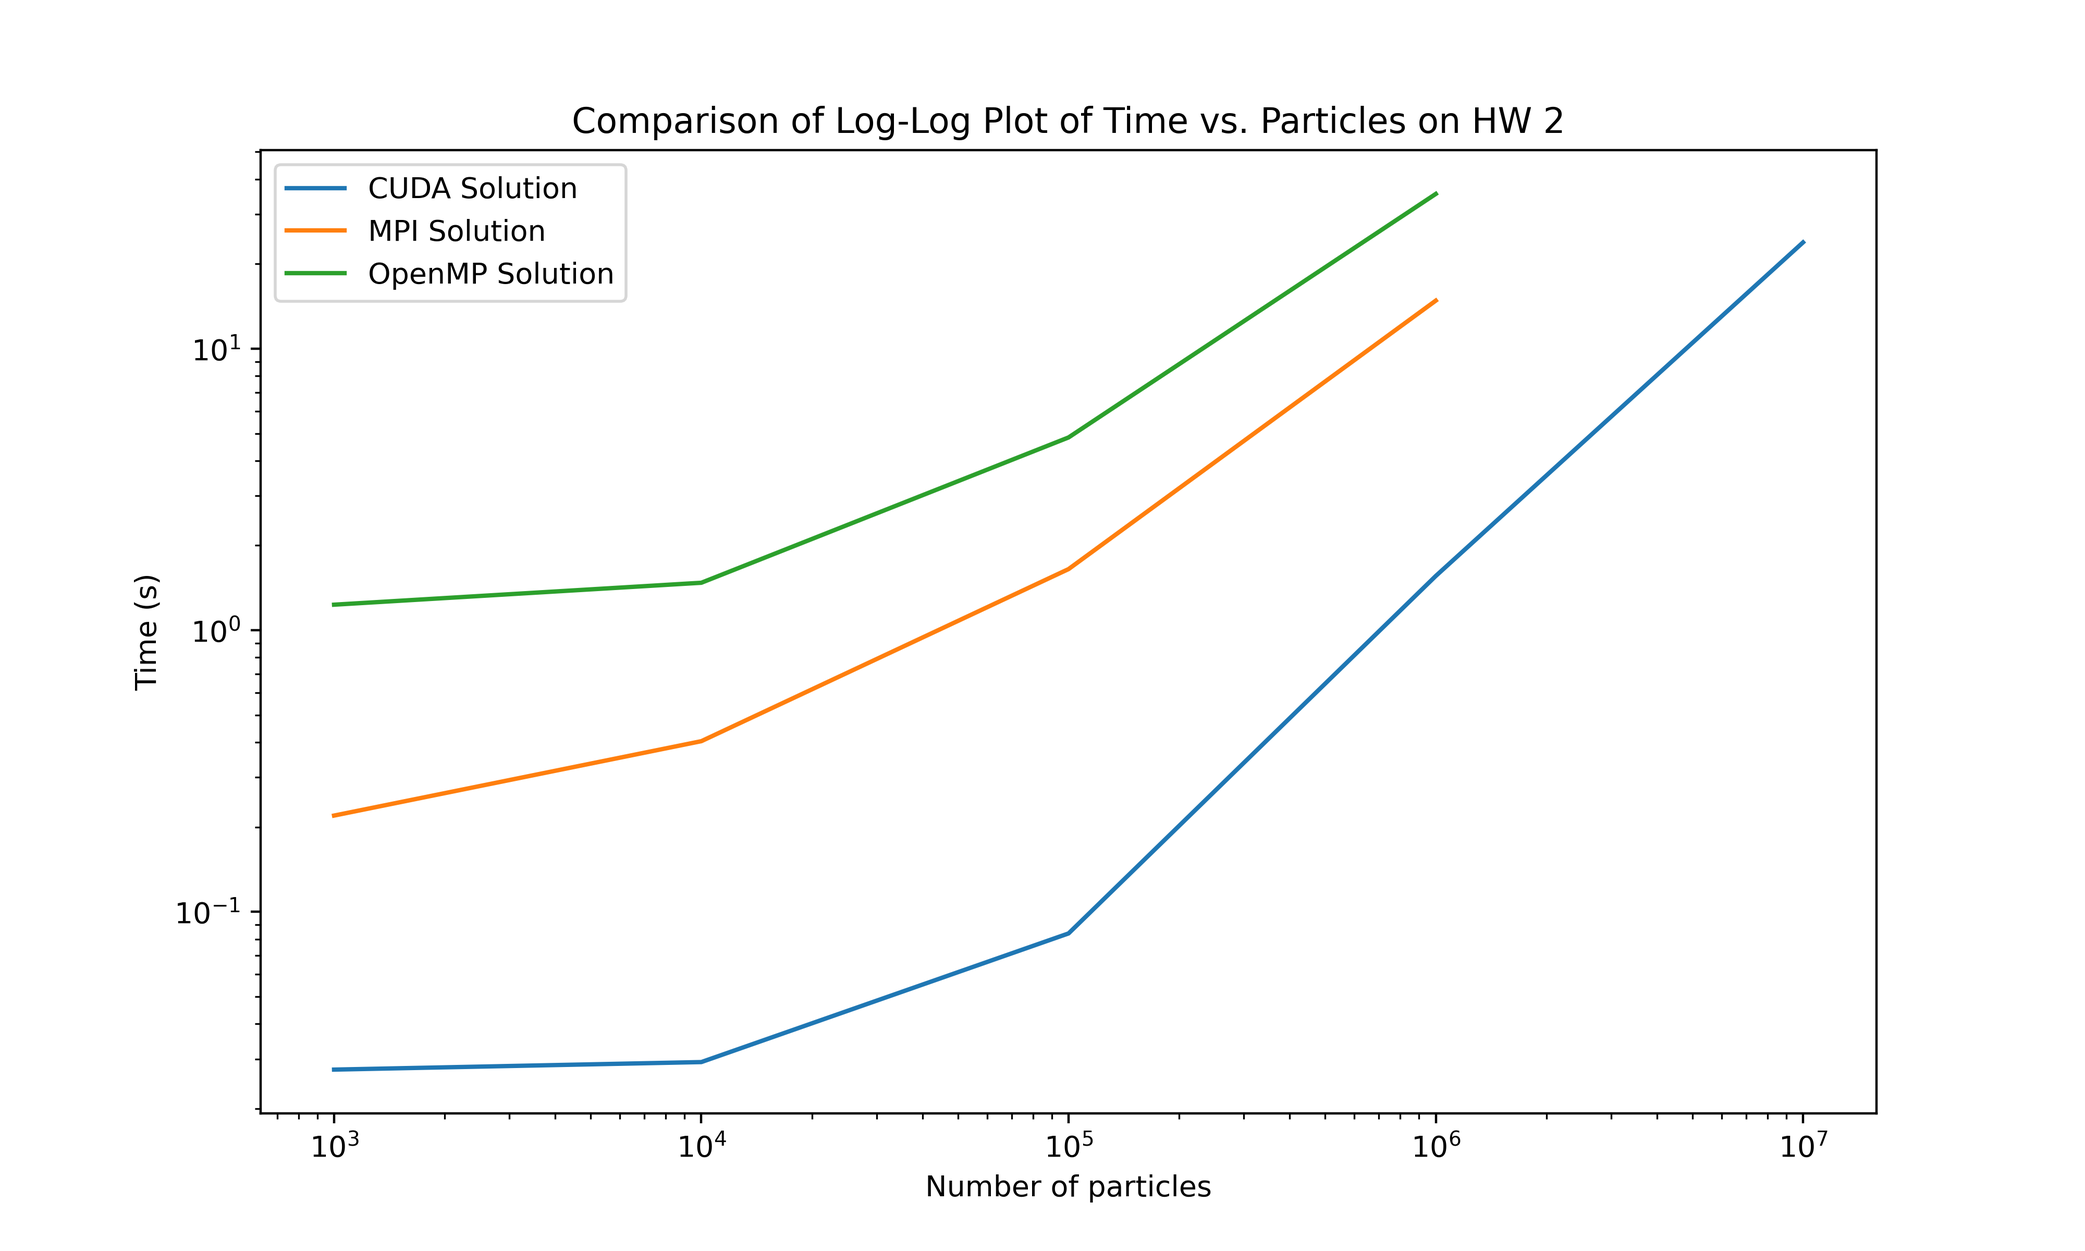
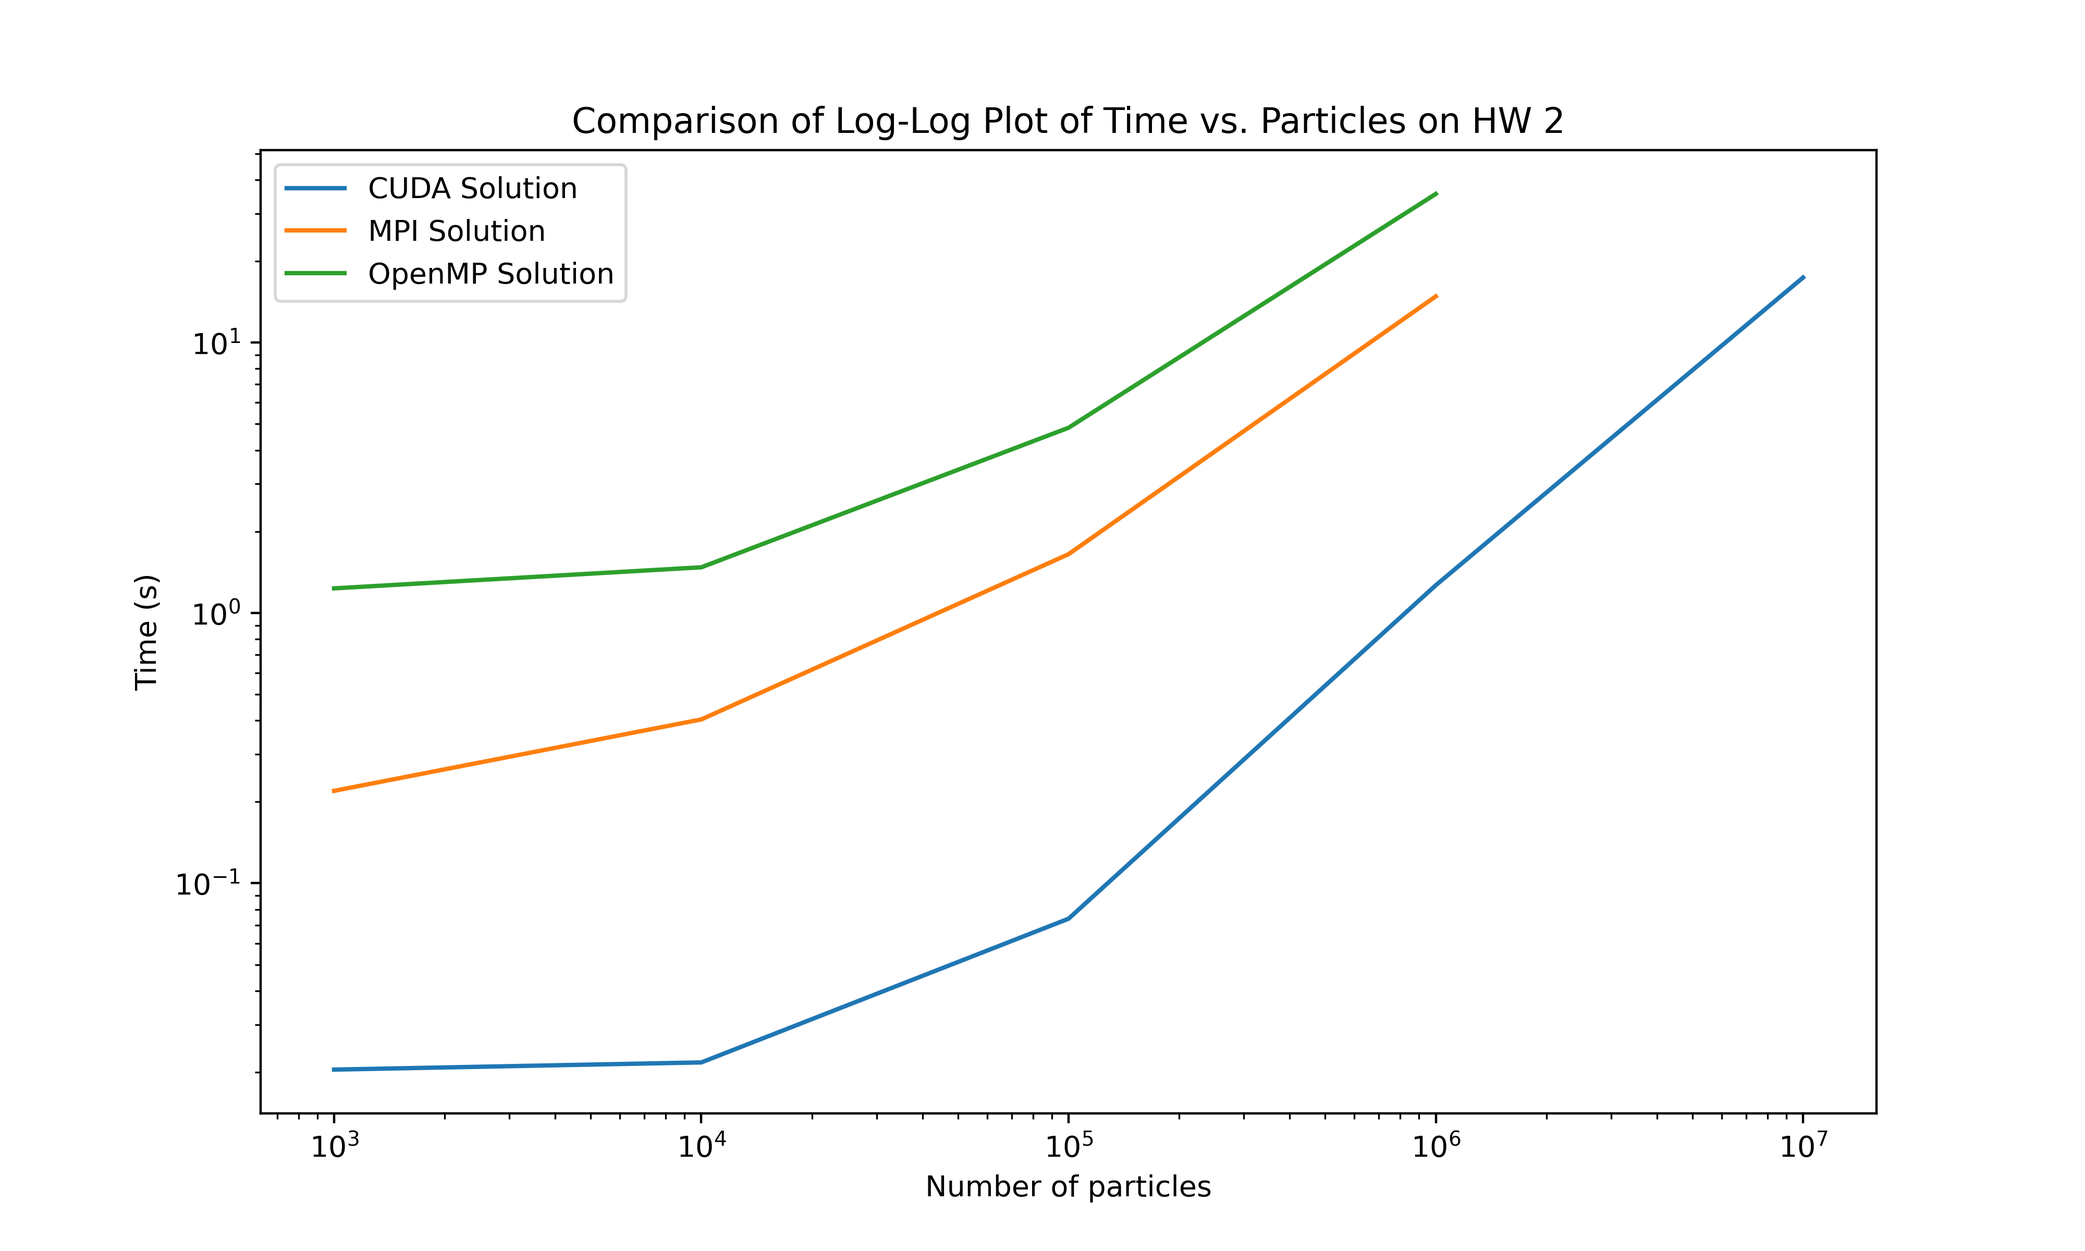
update repo

diff --git a/hw/latex/hw2_3.tex b/hw/latex/hw2_3.tex
@@ -25,20 +25,20 @@
 In general, compared to using prefix sum, this saves on memory allocation, but may seem to take a hit on spatial locality, since the linked list is not stored contiguously and cannot take advantage of the GPU cache. Another tradeoff that this design has is that it does not need to sort and can append to the linked list in $O(1)$ time using an atomic swap primitive in CUDA. Thus, the creation of the linked list can be called by a \verb|__global__| function, although the actual appending takes $O(n)$ time for each iteration per bin. But note that as the number of particles increase, the more bins that are created, so each bin will have a relatively small amount of particles, thus the $O(n)$ time mentioned earlier is smaller and latency of pointer chasing is essentially hidden to a smaller constant as you increase the number of particles. 
 
 \subsection{Synchronization}
-The only synchronization primitive that this code uses are atomic instructions \verb|atomicExch()| and \\ \verb|cudaDeviceSynchronize()|. We need \verb|atomicExch()| to append the linked list atomically and update the head of the head of the \verb|bin_ids| table of references. We need \verb|cudaDeviceSynchronize()| during every step of \verb|simulate_one_step| because we rebin the particles everytime after moving. To ensure that all the particles are in the right position before rebinning, we essentially put a barrier to ensure correctness of the particle's positions. Otherwise, the code may decide to bin particles without finishing moving.
+The only synchronization primitive that this code uses are atomic instructions \verb|atomicExch()|, \verb|atomicAdd()| and \\ \verb|__syncthreads()|. We need \verb|atomicExch()| to append the linked list atomically and update the head of the head of the \verb|bin_ids| table of references. We need \verb|__syncthreads()| during the end of \verb|compute_forces_gpu_bin()| because we rebin the particles every time after moving. This is a GPU kernel level synchronization that should ensure this correctness. Otherwise, the code may decide to bin particles without finishing moving. We also had to change the starter code and include \verb|atomicAdd()| in \verb|apply_force_gpu()|. In order to algorithmically speed up our code by including bidirectional iteration, we needed to add atomics as GPU threads would often collide and give incorrect results when updating particle metadata. 
 
 \subsection{Other Design Choices}
-Originally, we tried to use the GSI's recitation slides as a guide, using the prefix sum to compute the location of the \verb|particle_ids| into \verb|bin_ids| as the pointer to the location, since \verb|particles| would be sorted and stored contiguously into \verb|particle_ids|. But we had a lot of trouble figuring out how to make this ensure correctness, as in \verb|init_simulation| everything would seem correct, but after iterations in \verb|simulate_one_step|  there was synchronization issues where sometimes the bins wouldn't be sorted properly. Adding synchronization primitives such as \verb|cudaDeviceSynchronize()| and \verb|__syncthreads()| only slowed down the code and didn't fix correctness. Due to this weird correctness bug, we started from scratch again. We had the linked list implementation in mind, but were worried that pointer chasing would incur a lot of GPU cache misses. Given that the GPU architecture is very expensive and performant on registers and memory bandwidth, this type of concern should be free and very minimal. Given that the linked list implementation is under 4 seconds and pretty good compared to previous semester grades, we merged it into our main implementation. Ignoring correctness, the performance of prefix sum and sorting implementation was very bad, and it was probably due to the calls of \verb|cudaMemCpy| to do transfer data from CPU to GPU. Fortunately, the linked list implementation resides all of its computation on the GPU memory. Surprisingly, the code is very straightforward and cleaner than the original prefix sum and sorting implementation.
+Originally, we tried to use the GSI's recitation slides as a guide, using the prefix sum to compute the location of the \verb|particle_ids| into \verb|bin_ids| as the pointer to the location, since \verb|particles| would be sorted and stored contiguously into \verb|particle_ids|. But we had a lot of trouble figuring out how to make this ensure correctness, as in \verb|init_simulation| everything would seem correct, but after iterations in \verb|simulate_one_step|  there was synchronization issues where sometimes the bins wouldn't be sorted properly. Adding synchronization primitives such as \verb|cudaDeviceSynchronize()| and \verb|__syncthreads()| only slowed down the code and didn't fix correctness. Due to this weird correctness bug, we started from scratch again. We had the linked list implementation in mind, but were worried that pointer chasing would incur a lot of GPU cache misses. Given that the GPU architecture is very expensive and performant on registers and memory bandwidth, this type of concern should be free and very minimal. The linked list implementation is under 4 seconds and pretty good compared to previous semester grades, we merged it into our main implementation. Ignoring correctness, the performance of prefix sum and sorting implementation was very bad, and it was probably due to the calls of \verb|cudaMemCpy| to do transfer data from CPU to GPU. Fortunately, the linked list implementation resides all of its computation on the GPU memory. Surprisingly, the code is very straightforward and cleaner than the original prefix sum and sorting implementation.
 
 \subsection{Can We Do Better?}
-If given enough time, abandoning the linked list implementation and redoing the prefix sum could give us better performance. But considering that a student on Piazza reached 1.5 seconds on 1 million particles (ours is around 1.56s), we considered this as our stopping point. To implement the prefix sum required more code and a lot more debugging, and it was frustrating to use \verb|cuda-gdb| as switching into GPU kernel threads was often confusing to understand. Instead, we printed statements by transferring copies to CPU for correctness.
+If given enough time, abandoning the linked list implementation and redoing the prefix sum could give us better performance. But considering that a student on Piazza reached 1.5 seconds on 1 million particles (ours is around 1.26s), we considered this as our stopping point. To implement the prefix sum required more code and a lot more debugging, and it was frustrating to use \verb|cuda-gdb| as switching into GPU kernel threads was often confusing to understand. Instead, we printed statements by transferring copies to CPU for correctness.
 
 \section{Performance}
 
-\subsection{Log-Log Plot/Naive and our GPU implementation with linear behavior}
+\subsection{Log-Log Plot of Naive and GPU Implementation with Linear Behavior}
 \centerline{\includegraphics[width=6in]{figures/log-log.png}}
 
-Above shows the plots of the GPU optimized performance compared to the naive implementation from the starter code. We a constant increase in performance for naive and our optimized solution is able to follow that increase but at a much lower time. This is essentially the Roofline model in effect, where we see our performance be in memory bound and change to compute bound at around $10^5$ particles.
+Above shows the plots of the GPU optimized performance compared to the naive implementation from the starter code. We have a constant increase in performance for naive and our optimized solution is able to follow that increase but at a much lower time. This is essentially the Roofline model in effect, where we see our performance be in memory bound and change to compute bound at around $10^5$ particles.
 
 
 \subsection{All Implmentations of HW 2 Compared}
@@ -49,89 +49,55 @@ Interestingly, we see all of our implementations from OpenMP, MPI, and CUDA grap
 \subsection{Profiling}
 Here is a dump of the profiling log from \verb|nvprof| for 1000 particles:
 
-\begin{table}[]
-\begin{tabular}{llllllll}
-Type       & Time(\%) & Time     & Calls & Avg      & Min      & Max      & Name                   \\
-GPU activities: &
-  69.81\% &
-  10.602ms &
-  1000 &
-  10.601us &
-  5.4080us &
-  11.872us &
-  \begin{tabular}[c]{@{}l@{}}compute\_forces\_gpu\_bin\\ (particle\_t*, int, int, double, int*, int*)\end{tabular} \\
- &
-  17.10\% &
-  2.5970ms &
-  1000 &
-  2.5960us &
-  2.5600us &
-  2.8160us &
-  move\_gpu(particle\_t*, int, double) \\
- &
-  13.04\% &
-  1.9810ms &
-  1001 &
-  1.9790us &
-  1.9190us &
-  9.6000us &
-  \begin{tabular}[c]{@{}l@{}}binning(particle\_t*, \\ int, int, double, int*, int*)\end{tabular} \\
-           & 0.04\%   & 6.7200us & 1     & 6.7200us & 6.7200us & 6.7200us & {[}CUDA memcpy HtoD{]} \\
-API calls: & 86.51\%  & 208.47ms & 3     & 69.490ms & 2.9360us & 208.46ms & cudaMalloc             \\
-           & 8.40\%   & 20.253ms & 2001  & 10.121us & 978ns    & 21.672us & cudaDeviceSynchronize  \\
-           & 4.54\%   & 10.951ms & 3001  & 3.6490us & 3.2270us & 28.849us & cudaLaunchKernel       \\
-           & 0.26\%   & 618.75us & 1     & 618.75us & 618.75us & 618.75us & cuDeviceTotalMem       \\
-           & 0.23\%   & 565.39us & 101   & 5.5970us & 119ns    & 250.51us & cuDeviceGetAttribute   \\
-           & 0.03\%   & 69.979us & 1     & 69.979us & 69.979us & 69.979us & cuDeviceGetName        \\
-           & 0.02\%   & 39.924us & 1     & 39.924us & 39.924us & 39.924us & cudaMemcpy             \\
-           & 0.00\%   & 7.6000us & 1     & 7.6000us & 7.6000us & 7.6000us & cudaFree               \\
-           & 0.00\%   & 5.2530us & 1     & 5.2530us & 5.2530us & 5.2530us & cuDeviceGetPCIBusId    \\
-           & 0.00\%   & 1.3850us & 3     & 461ns    & 218ns    & 925ns    & cuDeviceGetCount       \\
-           & 0.00\%   & 1.0380us & 2     & 519ns    & 158ns    & 880ns    & cuDeviceGet            \\
-           & 0.00\%   & 239ns    & 1     & 239ns    & 239ns    & 239ns    & cuDeviceGetUuid       
-\end{tabular}
-\end{table}
+\begin{verbatim}
+ GPU activities:   63.15%  7.8961ms      1000  7.8960us  3.8400us  9.3760us  compute_forces_gpu_bin
+                                                                (particle_t*, int, int, double, int*, int*)
+                   20.81%  2.6014ms      1000  2.6010us  2.5590us  2.8480us  move_gpu
+                                                                (particle_t*, int, double)
+                   15.99%  1.9989ms      1001  1.9960us  1.9190us  2.6880us  binning
+                                                                (particle_t*, int, int, double, int*, int*)
+                    0.05%  6.7520us         1  6.7520us  6.7520us  6.7520us  [CUDA memcpy HtoD]
+      API calls:   90.32%  213.51ms         3  71.170ms  3.2540us  213.50ms  cudaMalloc
+                    4.72%  11.163ms      3001  3.7190us  3.2580us  32.592us  cudaLaunchKernel
+                    4.37%  10.341ms      1001  10.330us  1.1000us  18.366us  cudaDeviceSynchronize
+                    0.27%  632.12us         1  632.12us  632.12us  632.12us  cuDeviceTotalMem
+                    0.25%  592.64us       101  5.8670us     124ns  264.68us  cuDeviceGetAttribute
+                    0.04%  87.428us         1  87.428us  87.428us  87.428us  cuDeviceGetName
+                    0.02%  39.854us         1  39.854us  39.854us  39.854us  cudaMemcpy
+                    0.00%  10.101us         1  10.101us  10.101us  10.101us  cudaFree
+                    0.00%  9.7660us         1  9.7660us  9.7660us  9.7660us  cuDeviceGetPCIBusId
+                    0.00%  1.3440us         2     672ns     144ns  1.2000us  cuDeviceGet
+                    0.00%     992ns         3     330ns     174ns     634ns  cuDeviceGetCount
+                    0.00%     237ns         1     237ns     237ns     237ns  cuDeviceGetUuid
+\end{verbatim}
 
-Unless profiling creates some overhead, we know that in general, it takes around 0.025 seconds or 25ms for 1000 particles. We see that 69\% of the GPU's time is spent on \verb|compute_forces_gpu|, which is obviously the bottleneck even on serial implementation. Surprisingly, not that much time is spend on \verb|move_gpu|, but the analysis is understandable as it doesn't do anything computationally expensive. And impressively, 
-\verb|binning| takes 13\% of the GPU's time. It seems very fast to append to the linked list, and it's satisfying to know that pointer chasing doesn't seem to induce that much overhead or slowdown in performance given how binning works.
+Unless profiling creates some overhead, we know that in general, it takes around 0.020 seconds or 20ms for 1000 particles. We see that 63\% of the GPU's time is spent on \verb|compute_forces_gpu|, which is obviously the bottleneck even on serial implementation. Surprisingly, not that much time is spend on \verb|move_gpu|, but the analysis is understandable as it doesn't do anything computationally expensive. And impressively, 
+\verb|binning| takes 15\% of the GPU's time. It seems very fast to append to the linked list, and it's satisfying to know that pointer chasing doesn't seem to induce that much overhead or slowdown in performance given how binning works.
 
 For fun, a dump of 1 million particles is shown below:
 
-\begin{table}[]
-\begin{tabular}{llllllll}
-Type       & Time(\%) & Time     & Calls & Avg      & Min      & Max      & Name                                 \\
-GPU activities: &
-  61.73\% &
-  959.97ms &
-  1000 &
-  959.97us &
-  902.36us &
-  1.1170ms &
-  \begin{tabular}[c]{@{}l@{}}compute\_forces\_gpu\_bin(\\ particle\_t*, int, int, double, int*, int*)\end{tabular} \\
- &
-  28.31\% &
-  440.30ms &
-  1001 &
-  439.86us &
-  387.42us &
-  465.47us &
-  \begin{tabular}[c]{@{}l@{}}binning(particle\_t*, int, \\ int, double, int*, int*)\end{tabular} \\
-           & 9.26\%   & 143.95ms & 1000  & 143.95us & 139.23us & 149.85us & move\_gpu(particle\_t*, int, double) \\
-           & 0.70\%   & 10.840ms & 1     & 10.840ms & 10.840ms & 10.840ms & {[}CUDA memcpy HtoD{]}               \\
-API calls: & 86.73\%  & 1.54982s & 2001  & 774.52us & 940ns    & 1.4105ms & cudaDeviceSynchronize                \\
-           & 11.91\%  & 212.88ms & 3     & 70.961ms & 230.32us & 212.32ms & cudaMalloc                           \\
-           & 0.63\%   & 11.177ms & 3001  & 3.7240us & 3.2100us & 51.167us & cudaLaunchKernel                     \\
-           & 0.62\%   & 11.050ms & 1     & 11.050ms & 11.050ms & 11.050ms & cudaMemcpy                           \\
-           & 0.06\%   & 1.0764ms & 1     & 1.0764ms & 1.0764ms & 1.0764ms & cuDeviceTotalMem                     \\
-           & 0.03\%   & 579.12us & 101   & 5.7330us & 124ns    & 260.01us & cuDeviceGetAttribute                 \\
-           & 0.02\%   & 386.46us & 1     & 386.46us & 386.46us & 386.46us & cudaFree                             \\
-           & 0.00\%   & 67.072us & 1     & 67.072us & 67.072us & 67.072us & cuDeviceGetName                      \\
-           & 0.00\%   & 5.6740us & 1     & 5.6740us & 5.6740us & 5.6740us & cuDeviceGetPCIBusId                  \\
-           & 0.00\%   & 1.2430us & 3     & 414ns    & 170ns    & 881ns    & cuDeviceGetCount                     \\
-           & 0.00\%   & 885ns    & 2     & 442ns    & 127ns    & 758ns    & cuDeviceGet                          \\
-           & 0.00\%   & 217ns    & 1     & 217ns    & 217ns    & 217ns    & cuDeviceGetUuid                     
-\end{tabular}
-\end{table}
+\begin{verbatim}
+                Type  Time(%)      Time     Calls       Avg       Min       Max  Name
+ GPU activities:   53.99%  688.40ms      1000  688.40us  641.85us  844.57us  compute_forces_gpu_bin
+                                                            (particle_t*, int, int, double, int*, int*)
+                   33.89%  432.18ms      1001  431.75us  398.94us  484.45us  binning
+                                                            (particle_t*, int, int, double, int*, int*)
+                   11.29%  143.91ms      1000  143.91us  137.92us  150.30us  move_gpu
+                                                            (particle_t*, int, double)
+                    0.83%  10.630ms         1  10.630ms  10.630ms  10.630ms  [CUDA memcpy HtoD]
+      API calls:   82.36%  1.26246s      1001  1.2612ms  1.3870us  1.6215ms  cudaDeviceSynchronize
+                   15.87%  243.32ms         3  81.105ms  236.70us  242.57ms  cudaMalloc
+                    0.94%  14.429ms      3001  4.8070us  3.2350us  60.706us  cudaLaunchKernel
+                    0.71%  10.834ms         1  10.834ms  10.834ms  10.834ms  cudaMemcpy
+                    0.04%  632.14us         1  632.14us  632.14us  632.14us  cuDeviceTotalMem
+                    0.04%  578.40us       101  5.7260us     126ns  259.78us  cuDeviceGetAttribute
+                    0.03%  484.55us         1  484.55us  484.55us  484.55us  cudaFree
+                    0.01%  102.29us         1  102.29us  102.29us  102.29us  cuDeviceGetName
+                    0.00%  5.8710us         1  5.8710us  5.8710us  5.8710us  cuDeviceGetPCIBusId
+                    0.00%  1.5100us         3     503ns     167ns  1.1120us  cuDeviceGetCount
+                    0.00%     807ns         2     403ns     144ns     663ns  cuDeviceGet
+                    0.00%     377ns         1     377ns     377ns     377ns  cuDeviceGetUuid
+\end{verbatim}
 
 Again, we see that with profiling, the scaling of particles scales well with the simulation. There are small shifts in percentages, such as binning and computing forces, but that is probably mainly due to the ratio between particles and bins and the number of times it can map to GPU kernels threads. At some point, binning takes more execution time then move for a certain number of particles. 
 
@@ -145,7 +111,7 @@ Here are more visuals to depict the profiling of GPU execution: \\
 
 
 \section{Contribution}
-Brian contributed to most of the code and report. Andrew helped with a few edge cases and debugging. Xuan explores the usage of cuda and helps on the report.
+Brian contributed to all of the code and report. The record breaking 1.26s simulation for 1 million particles was done by him. Andrew helped with a few edge cases and debugging. Xuan explored some other solutions.
 
 \end{document}
 
